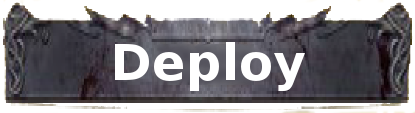
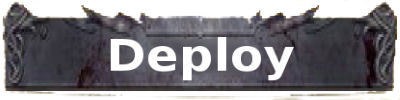
#161 - Added several new card sizes.
#167 - Markers are all the same size now across all of the game and
expansion sets.

#161 - Dice Roll Area is now one big card.

#126 - Removed the Dice Roll Button and made the dice roll area so you
can double click on it to roll the dice

#148 - Added the +1 to the text description of the marker

#161 - Many of the Game Markers and Cards have been resized and card
sizes configured so they no longer appeared distorted.

diff --git a/GameDatabase/9acef3d0-efa8-4d3f-a10c-54812baecdda/scripts/actions.py b/GameDatabase/9acef3d0-efa8-4d3f-a10c-54812baecdda/scripts/actions.py
@@ -47,7 +47,7 @@ MistToken = ("Mist Token","fcc2ffeb-6ae6-45c8-930e-8f3521d326eb" )
 Pet = ("Pet", "f4a2d3d3-4a95-4b9a-b899-81ea58293167" )
 Quick = ("Quick", "11370fe9-41a4-4f05-9249-29a179c0031b" )
 QuickBack = ("Quick Back", "a6ce63f9-a3fb-4ab2-8d9f-7d4b0108d7fd" )
-Ranged = ("Ranged","cfb394b2-8571-439a-8833-476122a9eaa5")
+Ranged = ("Ranged +1","cfb394b2-8571-439a-8833-476122a9eaa5")
 Ready = ("Ready", "aaea8e90-e9c5-4fbc-8de3-4bf651d784a7" )
 ReadyII = ("Ready II", "73fffebd-a8f0-43bd-a118-6aebc366ecf6" )
 Rot = ("Rot", "81360faf-87d6-42a8-a719-c49386bd2ab5" )
@@ -173,17 +173,13 @@ def setUpDiceAndPhaseCards():
 	mute()
 	TableSetup = getGlobalVariable("TableSetup")
 	if TableSetup == "False":
-		dieCardX = -570
+		dieCardX = -580
 		dieCardY = -40
-		table.create("d86b16a6-218a-4363-a408-599d3ef4a0b3", (dieCardX + -60), (dieCardY + -25)) # DiceRolling Button
-		#card.anchor = (True)
-		table.create("a6ce63f9-a3fb-4ab2-8d9f-7d4b0108d7fd", dieCardX, dieCardY) #dice field 1
-		#card.anchor = (True)
-		table.create("a6ce63f9-a3fb-4ab2-8d9f-7d4b0108d7fd", (dieCardX + 60), dieCardY) #dice field 2
-		#card.anchor = (True)
-		card = table.create("6a71e6e9-83fa-4604-9ff7-23c14bf75d48", (dieCardX + 60), (dieCardY - 150)) #Phase token/Next Phase Button
+		card = table.create("a6ce63f9-a3fb-4ab2-8d9f-7d4b0108d7fd", dieCardX, dieCardY) #dice field
+		card.anchor = (True)
+		card = table.create("6a71e6e9-83fa-4604-9ff7-23c14bf75d48", (dieCardX + 75), (dieCardY - 55)) #Phase token/Next Phase Button
 		card.switchTo("Planning") #skips upkeep for first turn
-		#card.anchor = (True)
+		card.anchor = (True)
 		setGlobalVariable("TableSetup", True)
 
 def onLoadDeck(player, groups):
@@ -330,7 +326,7 @@ def setDRAIP(location):
 
 	if location == 1:
 		#option A
-		dieCardX = -570
+		dieCardX = -580
 		dieCardY = -40
 		dieCard2X = -510 # = dieCardX + 60
 		dieCard2Y = -40 # = dieCardY
@@ -541,9 +537,12 @@ def CreateIniToken():
 	global iniTokenCreated
 	global currentPhase
 	mute()
+	dieCardX = -570
+	dieCardY = -40
 	if not iniTokenCreated:
 		iniTokenCreated = True
-		init = table.create("8ad1880e-afee-49fe-a9ef-b0c17aefac3f", initX, initY ) #initiative token
+		init = table.create("8ad1880e-afee-49fe-a9ef-b0c17aefac3f", (dieCardX + 5) , (dieCardY - 75 ) ) #initiative token
+		init.anchor = (True)
 		init.switchTo({
                         PlayerColor[0]:"",
                         PlayerColor[1]:"B",

diff --git a/GameDatabase/9acef3d0-efa8-4d3f-a10c-54812baecdda/scripts/attacks.py b/GameDatabase/9acef3d0-efa8-4d3f-a10c-54812baecdda/scripts/attacks.py
@@ -42,7 +42,7 @@ def diceRollMenu(attacker = None,defender = None):
         aTraitDict = (computeTraits(attacker) if attacker else {})
         dTraitDict = (computeTraits(defender) if defender else {})
         attackList = getAttackList(attacker) if attacker else []
-        choiceText,choices = "Roll how many red dice?",[str(i+1) for i in range(7)]
+        choiceText,choices = "Roll how many Attack Dice?",[str(i+1) for i in range(7)]
         #Suppose there is an attacker with at least one attack:
         if (attacker and attackList):
                 choiceText = "Use which attack?"
@@ -273,7 +273,7 @@ def rollDice(dice):
 		if c.model == "a6ce63f9-a3fb-4ab2-8d9f-7d4b0108d7fd" and c.controller == me:
 			c.delete()
 	dieCard = table.create("a6ce63f9-a3fb-4ab2-8d9f-7d4b0108d7fd", dieCardX, dieCardY) #dice field 1
-	dieCard2 = table.create("a6ce63f9-a3fb-4ab2-8d9f-7d4b0108d7fd", dieCard2X, dieCard2Y) #dice field 2
+	dieCard.anchor = (True)
 	diceFrom = ""
         count = dice
         if (len(diceBank) < count): #diceBank running low - fetch more
@@ -300,8 +300,8 @@ def rollDice(dice):
 	dieCard.markers[attackDie[0]] = result[0]+result[1] #blanks
 	dieCard.markers[attackDie[2]] = result[2] #1
 	dieCard.markers[attackDie[3]] = result[3] #2
-	dieCard2.markers[attackDie[4]] = result[4] #1*
-	dieCard2.markers[attackDie[5]] = result[5] #2*
+	dieCard.markers[attackDie[4]] = result[4] #1*
+	dieCard.markers[attackDie[5]] = result[5] #2*
 
 	d12DiceCount = 1
 	if (len(diceBankD12) < d12DiceCount): #diceBank running low - fetch more
@@ -316,7 +316,7 @@ def rollDice(dice):
 				diceBankD12.append(rnd(0, 11))
 
 	effect = int(diceBankD12.pop()) + 1
-	dieCard2.markers[DieD12] = effect
+	dieCard.markers[DieD12] = effect
 
 	if hasRolledIni:
 		playSoundFX('Dice')
